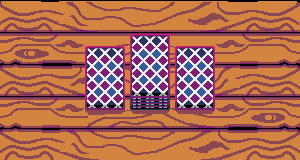
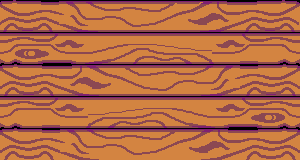
Redesign nos sprites - Melhorando as artes

Changed region(s): [[0.27, 0.1875, 0.72, 0.7188], [0.0, 0.0, 1.0, 0.0312]]

diff --git a/jokenpô.py b/jokenpô.py
@@ -62,7 +62,7 @@ class Game:
 
         self.play = True
         self.flip_card= False
-        self.deck= Card(0,0, "assets/deck.png", 3)
+        self.deck= Card(0,0, "assets/deck_card.png", 3)
         self.back_card= Card(0,0, "assets/back_card.png",3)
         self.back_card_bot= Card(0,0, "assets/back_card.png",2)
         self.cards_on_the_table= [self.deck, self.deck]
@@ -136,7 +136,7 @@ class Game:
             
     def main(self):
         while True:
-            self.screen.fill((0,0,0))
+            self.screen.fill((112,198,169))
             self.draw_interface()
             pygame.display.update()
 
